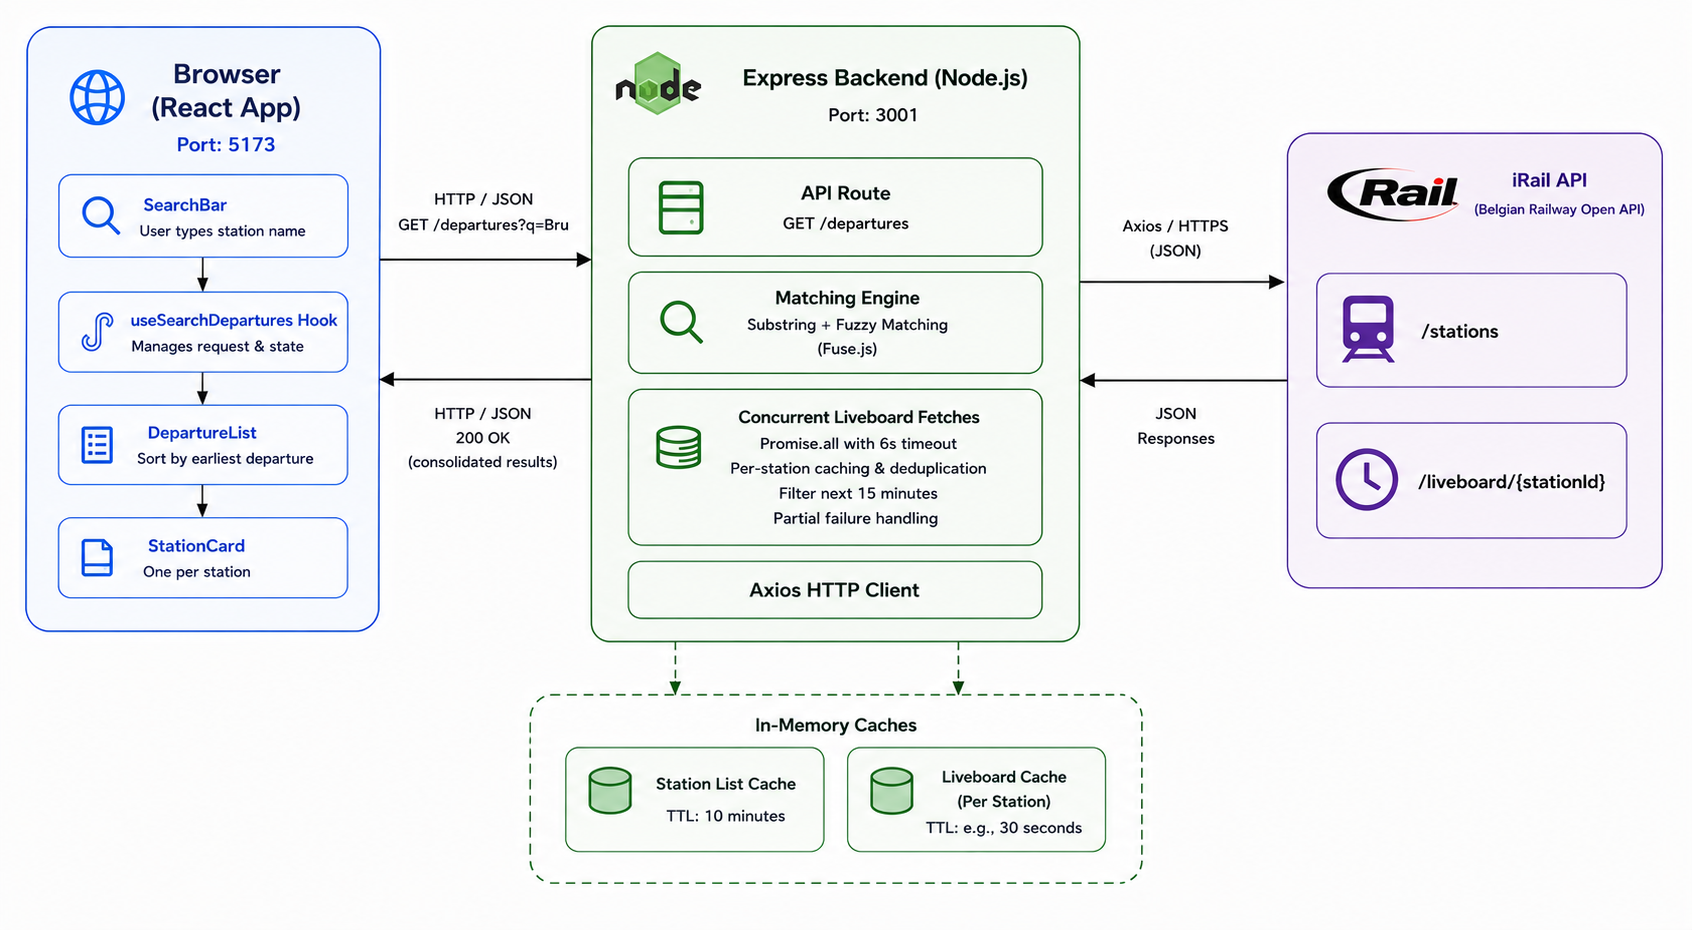
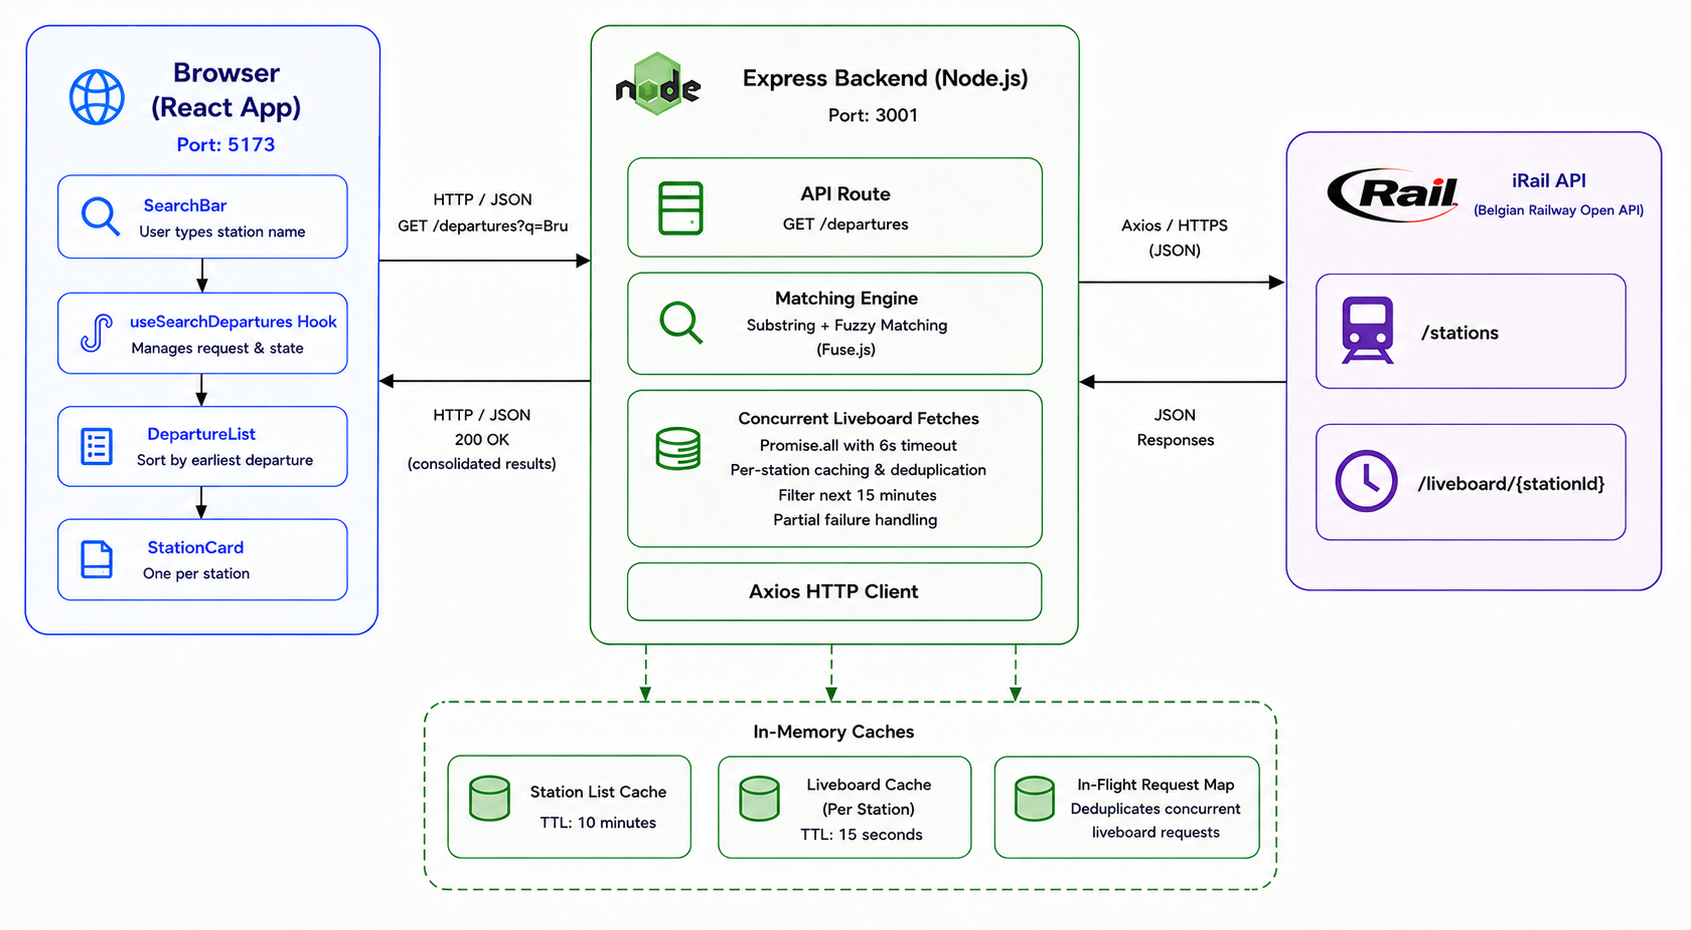
fixed timezone bug + handled for actual departures, not scheduled

diff --git a/backend/src/services/irail.js b/backend/src/services/irail.js
@@ -66,14 +66,14 @@ function searchStations(stations, query) {
 
   const substringMatches = stations.filter(
     (s) =>
-      s.name.toLowerCase().includes(lowerQuery) ||
-      (s.standardname && s.standardname.toLowerCase().includes(lowerQuery))
+      s.name?.toLowerCase().includes(lowerQuery) ||
+      s.standardname?.toLowerCase().includes(lowerQuery)
   );
 
   if (substringMatches.length > 0) {
     return substringMatches.map((s) => ({
       ...s,
-      displayName: s.name.toLowerCase().includes(lowerQuery) ? s.name : s.standardname,
+      displayName: s.name?.toLowerCase().includes(lowerQuery) ? s.name : s.standardname,
     }));
   }
 
@@ -115,7 +115,9 @@ function filterDepartures(departures) {
   const windowEnd = nowSec + 15 * 60;
   return departures.filter((dep) => {
     const scheduled = parseInt(dep.time, 10);
-    return scheduled >= nowSec && scheduled <= windowEnd && dep.left === '0';
+    const delay = parseInt(dep.delay, 10) || 0;
+    const effectiveDeparture = scheduled + delay;
+    return effectiveDeparture >= nowSec && effectiveDeparture <= windowEnd && dep.left === '0';
   });
 }
 

diff --git a/frontend/src/hooks/useSearchDepartures.js b/frontend/src/hooks/useSearchDepartures.js
@@ -28,8 +28,8 @@ export function useSearchDepartures(submission) {
     fetch(`/departures?q=${encodeURIComponent(query)}`, { signal: controller.signal })
       .then((res) => {
         if (!res.ok) {
-          return res.json().then((b) =>
-            Promise.reject(new Error(FRIENDLY_ERRORS[b.code] || 'Something went wrong. Please try again.'))
+          return res.json().then((err) =>
+            Promise.reject(new Error(FRIENDLY_ERRORS[err.code] || 'Something went wrong. Please try again.'))
           );
         }
         return res.json();

diff --git a/frontend/src/components/DepartureList.jsx b/frontend/src/components/DepartureList.jsx
@@ -180,6 +180,7 @@ export default function DepartureList({ results, error, isLoading, showRefresh, 
           {new Date(results.generatedAt).toLocaleTimeString('en-GB', {
             hour: '2-digit',
             minute: '2-digit',
+            timeZone: 'Europe/Brussels',
           })}
         </span>
         {showRefresh && (

diff --git a/README.md b/README.md
@@ -133,9 +133,9 @@ Rather than fetching liveboards from iRail sequentially, we launch all liveboard
 - Each per-station fetch is wrapped in its own `try/catch`, so a single station failure never rejects the outer `Promise.all` — the UI shows a per-station error note for failures while still displaying results for all other stations.
 - While iRail does mention [API rate limits](https://docs.irail.be/#header-request-limits) in their documentation, practically the server never threw a 429 status. After verifying this by firing 100+ requests per second multiple times, the decision to fire all requests in parallel was made.
 
-### Departure window filtering
+### Display actual upcoming departures, not scheduled
 
-Departures are filtered by **scheduled** time (not actual) by taking the delay into account, as the spec states "departures scheduled within the next 15 minutes." Trains that already departed are excluded regardless of their scheduled time.
+Departures are filtered by **actual** time (not scheduled) by taking the delay into account. Thus, trains that are scheduled to leave before the time right now but have not left because of a delay will be displayed. Trains that already departed are excluded regardless of their scheduled or actual time.
 
 ### Bonus - Fuzzy search
 
@@ -143,10 +143,10 @@ Substring matching satisfies the spec. Fuzzy matching (bonus requirement) is lay
 
 ### Known Limitations
 
-- **No pagination:** If a search matches 30 stations, all are fetched in parallel and shown.
 - **No rate-limit handling:** iRail [documents](https://docs.irail.be/#header-request-limits) rate limits (3 req/s, burst of 5) but does not enforce them in practice. Thus, the backend makes all liveboard requests concurrently with no rate limiting. If limits were enforced, the Express backend will return a 502 UPSTREAM_ERROR.
 - **Time zone assumption:** Scheduled times are formatted in `Europe/Brussels`. If iRail ever returns timestamps in a different zone, this would show incorrect times.
 - **Sophisticated Error Handling:** The app does not handle each error as required (such as waiting and retrying on 502, waiting on 429, etc.). Instead, a generic error message is thrown to the frontend to notify the user. 
+- **No defensive validation of upstream data:** The application treats iRail as a trusted API and assumes documented response fields and reasonable payload sizes. It does not implement defensive measures such as maximum station name lengths, maximum station counts, or schema validation of upstream responses.
 
 ## Alternative Approach
 

diff --git a/AI_USAGE.md b/AI_USAGE.md
@@ -18,6 +18,9 @@ The following ideas were proposed entirely by the developer and executed with AI
 * Added conditional GET support (`ETag` / `If-None-Match`) to iRail calls.
 * Added a **Refresh** button that appears after 15 seconds to fetch fresh departure data.
 * Added more than half of the testing usecases.
+* Added sorting according to departure times and making it configurable in the UI.
+* Entire README and AI_USAGE files were revamped entirely by the developer. 
+* Changed the behaviour of filtering with actual departure time by taking delay into account, not just scheduled time.
 
 ---
 